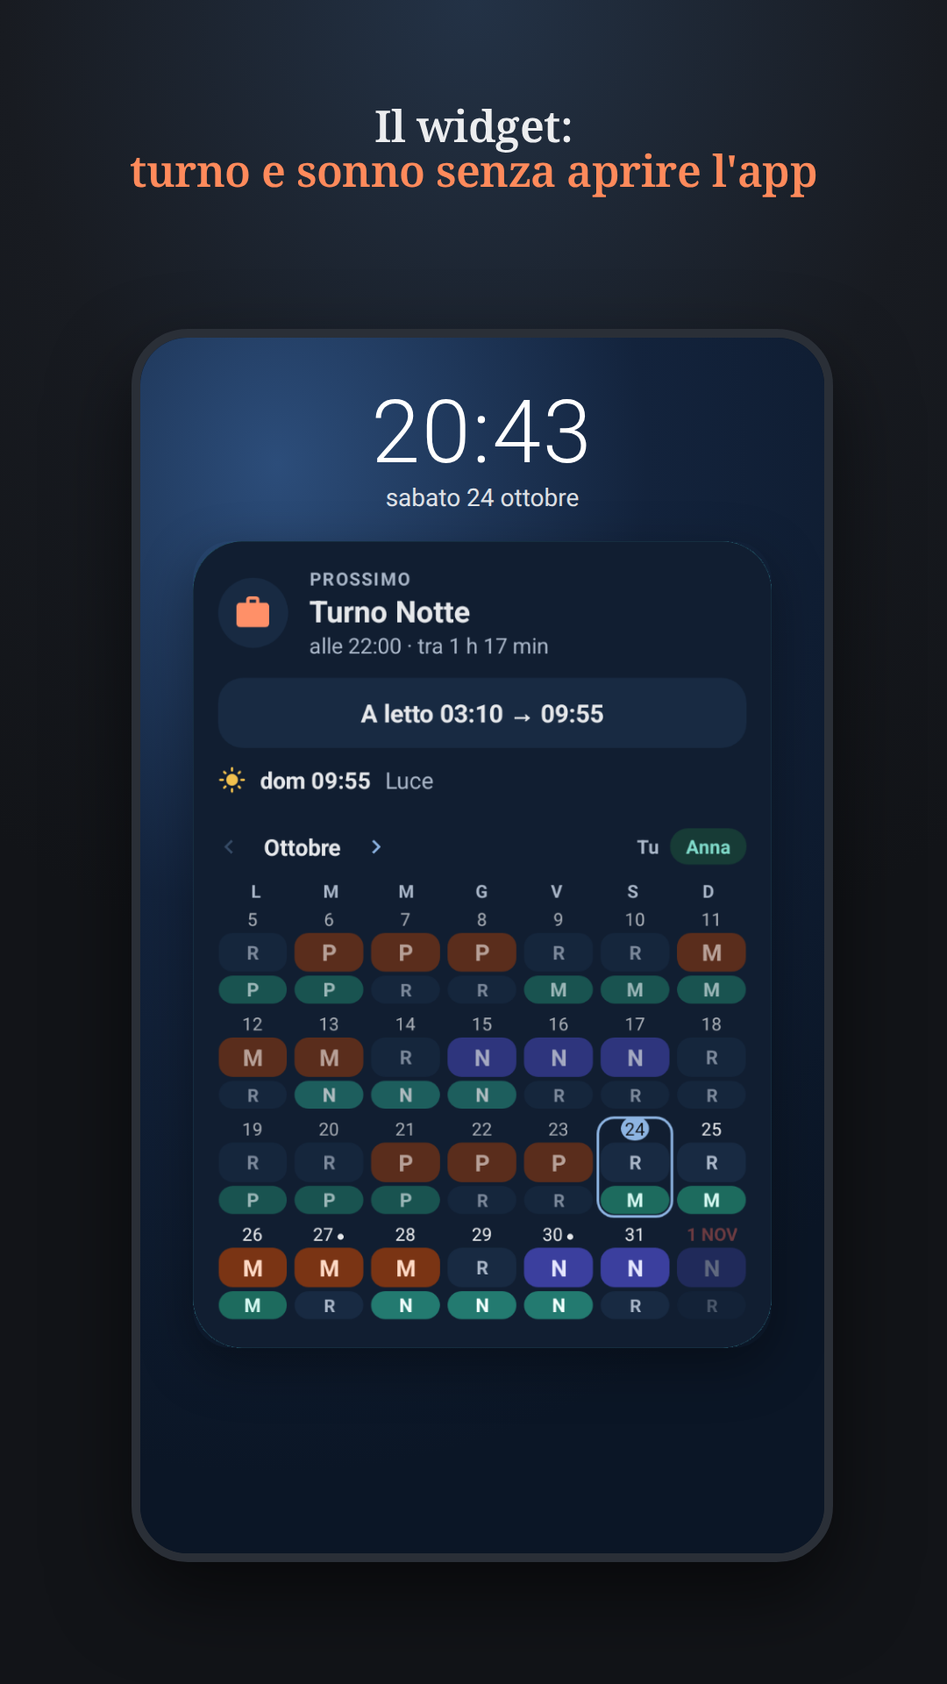
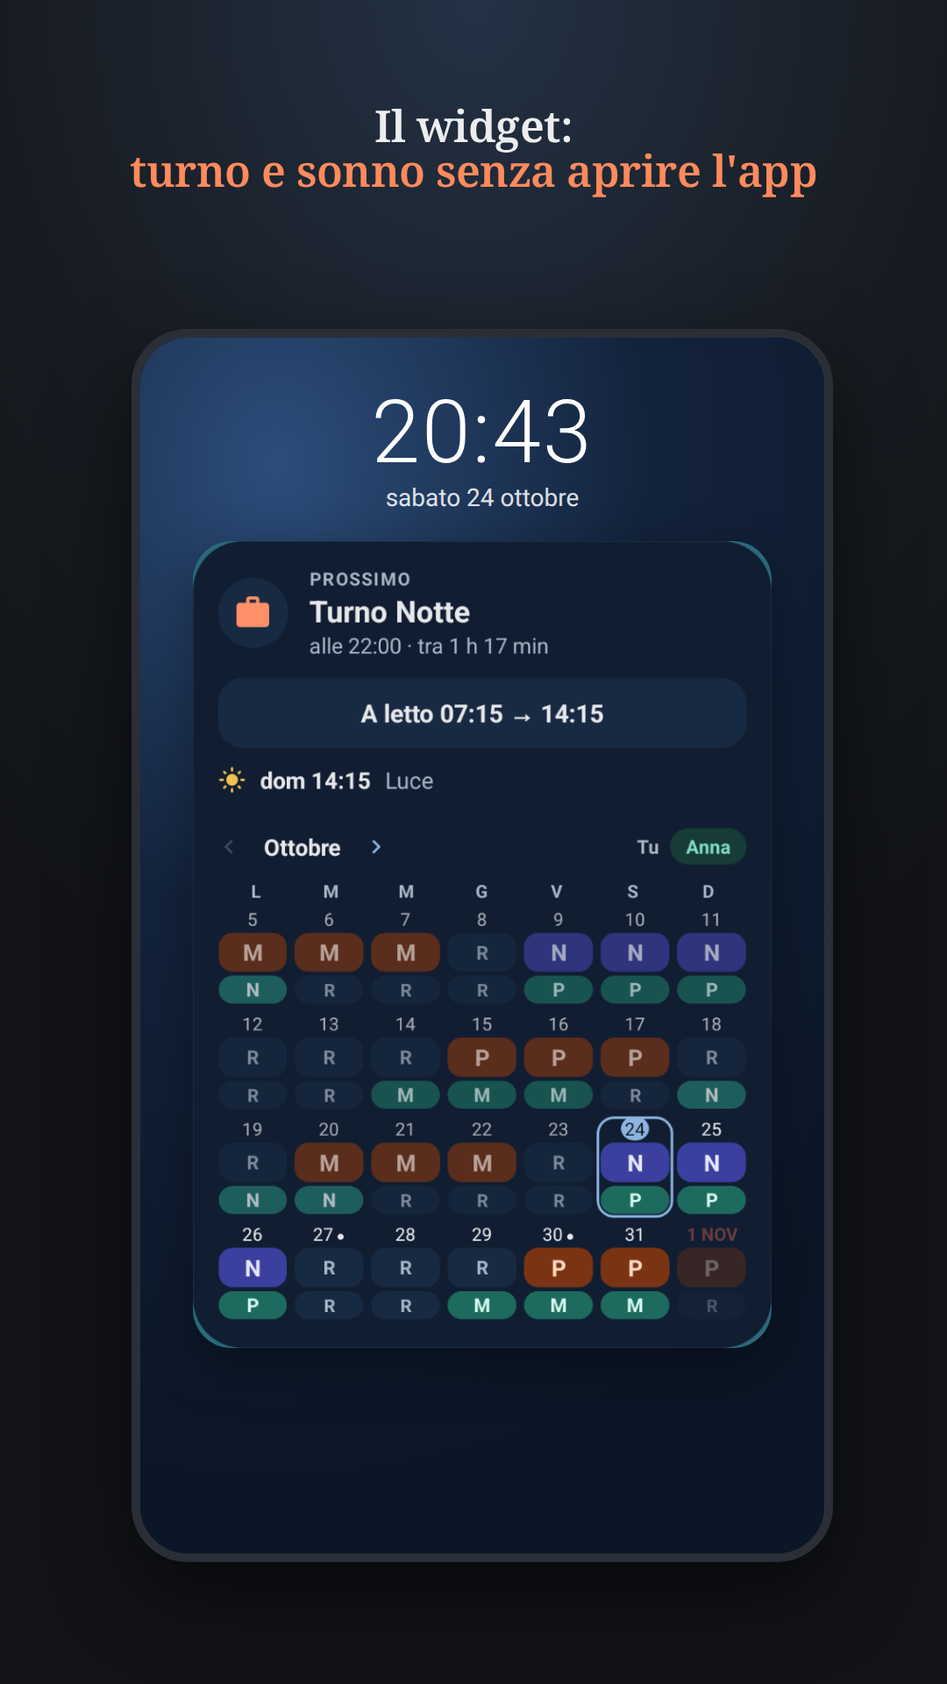
Testi: giro 6 del revisore e passata per concetto; widget dello store coerente
- Autisti: il sonno al volante di solito si fa sentire prima; regole UE
  solo per le linee oltre i 50 km. Recupero sempre parziale; caffeina
  «possono disturbare» e «una parte resta in circolo»; «di solito» dove
  mancava; trovate da sole altre 4 certezze (vedi giro 7 nel dossier).
- Cronotipo: taglio alle 21:00 e la sveglia dichiarata vera, non quella
  limitata dal motore (chi dorme 14–22 risultava allodola); test 14–22.
- Anteprima del widget con dati coerenti (oggi notte, sonno dopo il
  turno); screenshot dello store rigenerati e controllati.
- Test resi stabili: speciali sfoglia la settimana della striscia e
  fissa l'ora (falliva di giovedì e dopo mezzanotte).

diff --git a/index.html b/index.html
@@ -3914,7 +3914,7 @@ function cards(P){
   }else if(night){
     cc.sub="Di notte serve, ma va concentrata a inizio turno.";
     cc.rows.push(["Sì",hhmm(b.start)+" appena entri, un altro entro le "+hhmm(cut)]);
-    cc.rows.push(["Come prenderlo","piccoli e distanziati: due caffè normali a distanza reggono meglio di un doppio, e disturbano meno il sonno dopo"]);
+    cc.rows.push(["Come prenderlo","piccoli e distanziati: di solito due caffè normali a distanza reggono meglio di un doppio e pesano meno sul sonno dopo"]);
     cc.rows.push(["No","dopo le "+hhmm(cut)+": la caffeina è ancora in circolo quando provi a dormire"]);
   }else if(s.meta.ramp&&shift<0)
     cc.sub="Stasera vai a letto prima del solito: il caffè del pomeriggio è la prima cosa da anticipare.";
@@ -4025,13 +4025,13 @@ function cards(P){
          :n.turno?("Nella pausa, prima del momento peggiore della notte. Finisce con largo margine dalla fine del turno: svegliarsi poco prima di salire in macchina peggiorerebbe proprio l'ora più delicata.")
          :((n.b-n.a)<40&&!n.rec&&!n.lungo&&!n.debito&&!n.turno)?("Hai dormito abbastanza, ma fra la sveglia di stamattina e il letto di stanotte passano "+hm(n.ore||0)+" di fila. Un pisolino corto prima di uscire non ti ruba il sonno di stanotte e di solito ti fa arrivare a fine turno più lucido.")
          :(n.first?"Di solito è il pisolino che aiuta di più in tutto il ciclo. Fallo anche senza sonno, prima di uscire di casa."
-                  :"Recupera quello che il sonno del mattino non è riuscito a darti."),
+                  :"Ti fa recuperare una parte del sonno che la mattina non è riuscita a darti."),
       rows:n.rep?[["Se ti chiamano","un caffè appena esci va bene; dopo le 3 del mattino evitalo se poi torni a dormire. Al rientro, un sonno corto prima del resto della giornata"],
         ["Al risveglio","per circa un quarto d'ora sei più lento: se puoi, aspetta quel quarto d'ora prima di guidare"]]
         :(n.rec||n.dopo)?[]:[["Poi","mangi con calma ed esci: c'è tempo per svegliarti bene"],
         ["Al risveglio","per circa un quarto d'ora sei più lento: se puoi, aspetta quel quarto d'ora prima di guidare o di fare cose delicate"]],
       nap:{k:hhmm(n.a), fine:hhmm(n.b), min:n.b-n.a, turno:!!n.turno, livello:n.livello, caffe:!!n.caffe, caffeNo:n.caffeNo||""},
-      why:(night ? "Dormire prima di entrare riduce il crollo di attenzione nelle ore centrali della notte, quando gli errori costano di più."
+      why:(night ? "Dormire prima di entrare di solito riduce il crollo di attenzione nelle ore centrali della notte, quando gli errori costano di più."
                  : "Dormire prima di entrare di solito ti fa arrivare al turno più lucido, e il sonno che manca pesa meno sulle ore di lavoro.")+" Un'ora e mezza di solito lascia finire un ciclo di sonno e ci si sveglia meno intontiti; se non hai tempo, venti minuti sono meglio di niente.",
       cite:"Rosekind e coll. 1995 (NASA) · Tassi & Muzet 2000", at:n.a});
   }
@@ -4076,7 +4076,7 @@ function cards(P){
           ? "Quando stacchi sei in piedi da "+hm(filate)+", non da "+hm(senzaPisolino)+": senza il pisolino, dopo 17 ore di veglia la coordinazione cala come con circa 0,5 g/l di alcol."
           : "Quando stacchi sei in piedi da "+hm(filate)+" invece che da "+hm(senzaPisolino)+": di solito il pisolino ti fa arrivare a fine turno più lucido.")
         : filate < 60
-        ? "Sono più di quante il corpo ne regga bene, e oggi non c'è spazio per un pisolino che aiuti davvero: mettilo in conto, e se hai sonno non guidare."
+        ? "Sono tante ore di fila, e oggi non c'è spazio per un pisolino: mettilo in conto, e se hai sonno non guidare."
         : "Quando stacchi sei in piedi da "+hm(filate)+" di fila: sono tante ore. Se hai sonno, meglio non guidare.";
     out.push({k:"t",
       lab: b.rest ? "Veglia lunga" : "Rientro",
@@ -4100,9 +4100,9 @@ function cards(P){
       small: "<b>"+esc(b.name||nameOf(b.c))+"</b>",
       sub:"Per il viaggio contiamo "+state.cTo+" minuti all'andata e "+state.cFrom+" al ritorno: decidono quando ti prepari e da quando sei di nuovo libero.",
       ...(state.guidaLavoro ? {
-        rows:[["Pause di guida","dopo 4 ore e mezza di guida, 45 minuti di pausa (anche in due: prima 15, poi 30)"],
+        rows:[["Pause di guida","dopo 4 ore e mezza di guida, almeno 45 minuti di pausa (anche in due: prima 15, poi 30)"],
               ["Se hai sonno","nella pausa un caffè e subito un pisolino di 15–20 minuti; al risveglio riparti solo quando ti senti sveglio"]],
-        why:"Per camion e autobus le pause sono quelle delle regole europee (le stesse del tachigrafo). Il sonno al volante non avvisa: al simulatore, caffè più pisolino breve funziona meglio dei due da soli; finestrino aperto e radio alta no.",
+        why:"Per camion e autobus di linea oltre i 50 km valgono le regole europee (le stesse del tachigrafo); per le linee urbane decidono le regole nazionali e il contratto. Di solito il sonno al volante si fa sentire prima (palpebre pesanti, sbadigli): è il momento di fermarsi. Al simulatore, caffè più pisolino breve funziona meglio dei due da soli; finestrino aperto e radio alta no.",
         cite:"Reg. (CE) 561/2006, art. 7 · Reyner &amp; Horne 1997 (simulatore di guida)" } : {}),
       cambia:4, cambiaTxt:"Cambia il tuo tragitto",
       at: b.start});
@@ -4635,11 +4635,11 @@ function diaryReminder(P, CARDS){
   if(logged && P){
     const extraN=P.s && P.s.meta && P.s.meta.debitoExtra;
     if(extraN){ stato="Da recuperare: "+hm(P.debitoMin)+" di sonno · stanotte +"+extraN+" min";
-      statoPerche="Con più di tre ore di debito un pisolino non basta, e accorcerebbe il sonno di stanotte: per questo il piano anticipa di "+extraN+" minuti l'ora di letto. La sveglia resta la stessa, perché spostarla sposterebbe anche l'orologio del corpo."; }
+      statoPerche="Con più di tre ore di debito il piano preferisce allungare la notte: un pisolino lungo accorcerebbe il sonno di stanotte. Per questo il piano anticipa di "+extraN+" minuti l'ora di letto. La sveglia resta la stessa, perché spostarla sposterebbe anche l'orologio del corpo."; }
     else if(napRec){ stato="Da recuperare: "+hm(napRec.debito)+" di sonno · pisolino alle "+hhmm(napRec.a);
       statoPerche=debitoMotivo(napRec)+" Il pisolino non è un extra: ne recupera una parte prima che si sommi a domani. Quando comincia ti chiedo se l'hai fatto."; }
     else if(P.debitoScoperto>0){ stato="Da recuperare: "+hm(P.debitoScoperto)+" di sonno · oggi non c'è spazio per un pisolino";
-      statoPerche="Oggi non c'è spazio per un pisolino, né prima né dopo il turno. Il conto resta aperto: recupera stanotte e, se hai sonno, evita di guidare."; }
+      statoPerche="Oggi non c'è spazio per un pisolino, né prima né dopo il turno. Il conto resta aperto: stanotte ne recuperi una parte e, se hai sonno, evita di guidare."; }
     else if(napRecDebt){ stato="Per recuperare, il piano propone un pisolino alle "+hhmm(napRecDebt.a);
       statoPerche="La notte è stata più corta di quella che il piano proponeva: un pisolino di recupero ne toglie una parte."; }
     // le notti che pesano di più: il «Perché?» mostra da dove viene il numero
@@ -6410,8 +6410,8 @@ function attivitaHtml(k){
 }
 const VOCI_FIN=[
   ["testa","Testa",ICON.mente,"pensare, studiare","Le ore in cui di solito sei più lucido: almeno 90 minuti dopo il risveglio e 2 ore prima di dormire, fuori dal turno, dal viaggio e dai pasti. "+STIMA_FIN],
-  ["leggera","Movimento",ICON.passo,"camminare, stretching","45 minuti leggeri quando il corpo è più pronto: almeno 45 minuti dopo il risveglio e un'ora prima di dormire, lontano dai pasti. "+STIMA_FIN],
-  ["intensa","Allenamento",ICON.peso,"più impegnativo","60 minuti più impegnativi, quando forza e coordinazione sono al meglio: almeno 2 ore dopo il risveglio, lontano dai pasti, finiti 3 ore prima di dormire. "+STIMA_FIN]
+  ["leggera","Movimento",ICON.passo,"camminare, stretching","45 minuti leggeri quando di solito il corpo è più pronto: almeno 45 minuti dopo il risveglio e un'ora prima di dormire, lontano dai pasti. "+STIMA_FIN],
+  ["intensa","Allenamento",ICON.peso,"più impegnativo","60 minuti più impegnativi, quando di solito forza e coordinazione rendono di più: almeno 2 ore dopo il risveglio, lontano dai pasti, finiti 3 ore prima di dormire. "+STIMA_FIN]
 ];
 // A letto molto presto prima di un mattino: le due strade con gli orari veri,
 // nel giorno in cui servono (prima era una nota con un rimando a Impostazioni,
@@ -6428,7 +6428,7 @@ function sceltaLettoPresto(P){
   const on=!!state.mattinoBifasico;
   const opz=(v,nome,o,acceso)=>'<button type="button" class="vb'+(acceso?" on":"")+'" data-mattinobif="'+(v?1:0)+'" aria-pressed="'+acceso+'"><b>'+nome+'</b><span>a letto alle '+hhmm(o.a)+'</span></button>';
   const spiega='<p class="dn-hint">Tutto stanotte: le ore piene, ma prima delle 21 addormentarsi è difficile per molti. '+
-    'Più tardi + pisolino: a letto a un\'ora normale, e il resto lo recuperi con un pisolino dopo il turno.</p>';
+    'Più tardi + pisolino: a letto a un\'ora normale, e una parte di quello che manca la recuperi con un pisolino dopo il turno.</p>';
   // Una riga sola (la scelta in vigore e l'ora di letto): le due strade e il perché si aprono al tocco. Prima erano sempre aperti.
   return '<details class="dopo-notte dn-comp" aria-label="Prima di un turno molto presto, come dormi"><summary><span class="dn-sum"><small>Prima del turno presto</small><span><b>'+(on?"Più tardi + pisolino":"Tutto stanotte")+'</b> · a letto alle '+hhmm((on?diviso:tutto).a)+'</span></span></summary>'+
     '<div class="dn-scelta">'+opz(false,"Tutto stanotte",tutto,!on)+opz(true,"Più tardi + pisolino",diviso,on)+'</div>'+spiega+'<p class="dn-vale">Vale per tutti i turni presto.</p></details>';
@@ -6449,7 +6449,7 @@ function sceltaDopoNotte(P){
   const corto=P.s.kind==="corto", diviso=cur==="diviso";
   const opz=(val,nome,fine,on,nota)=>'<button type="button" class="vb'+(on?" on":"")+'" data-sonnod="'+val+'" aria-pressed="'+on+'"><b>'+nome+'</b><span>fino alle '+hhmm(fine)+'</span><span class="dn-nota">'+nota+'</span></button>';
   const spiega = '<p class="dn-hint">'+(corto
-    ? 'Sonno breve: il pomeriggio è tuo e stasera, di solito, il sonno arriva prima. Sonno lungo: recuperi di più adesso, ma stasera il sonno arriva più tardi.'
+    ? 'Sonno breve: il pomeriggio è tuo e stasera, di solito, il sonno arriva prima. Sonno lungo: recuperi di più adesso, ma di solito stasera il sonno arriva più tardi.'
     : 'In due tempi: un sonno più corto e un pisolino prima della prossima notte (di giorno si dorme più leggeri). Tutto di fila: un blocco solo, se di giorno dormi bene.')+'</p>';
   const scelte='<div class="dn-scelta">'+opz("diviso", corto?"Sonno breve":"In due tempi", eD, diviso, corto?"pomeriggio libero":"poi un pisolino")+opz(unito, corto?"Sonno lungo":"Tutto di fila", eU, !diviso, corto?"recuperi di più":"un blocco solo")+'</div>'+
     spiega+'<p class="dn-vale">Vale per tutte le notti.</p>';
@@ -7435,7 +7435,7 @@ function perchéOggi(P){
   const aVoce=x=>{ x=Math.round(x/15)*15; const h=Math.floor(x/60), r=x%60, q={15:"un quarto d'ora",30:"mezz'ora",45:"tre quarti d'ora"};
     if(!h) return q[r]||"";
     return (["","un'ora","due ore","tre ore","quattro ore","cinque ore","sei ore"][h]||h+" ore")+({15:" e un quarto",30:" e mezza",45:" e tre quarti"}[r]||""); };
-  if(P.lateStart) return "Attacchi nel cuore della notte: si dorme prima del turno"+((P.naps||[]).some(n=>n.rec) ? " e si recupera dopo, con un pisolino." : ".");
+  if(P.lateStart) return "Attacchi nel cuore della notte: si dorme prima del turno"+((P.naps||[]).some(n=>n.rec) ? " e una parte si recupera dopo, con un pisolino." : ".");
   if(P.night){
     const n=s.nIdx||1, L=s.nLen||1;
     if(n===1 && m.gap && m.gapNight) return "Prima notte: il tuo orologio non è ancora sulla notte, ed è normale. Ci pensano il pisolino di oggi e la luce in turno.";
@@ -7734,7 +7734,7 @@ function caricoHtml(aperta){
   else if(noti(F) && F.brevi) frase=(F.brevi===1?"Una volta":F.brevi+" volte")+" nei prossimi 30 giorni stacchi e riattacchi in meno di 11 ore: in quei giorni il sonno va protetto più del solito.";
   else if(noti(P) && P.serieMax>=4) frase="Nell'ultimo mese hai fatto fino a "+P.serieMax+" notti di fila: il rischio di infortuni cresce a ogni notte, di più alla quarta [Folkard & Tucker 2003].";
   else if(noti(P) && P.brevi) frase=(P.brevi===1?"Una volta":P.brevi+" volte")+" nell'ultimo mese hai avuto meno di 11 ore fra un turno e l'altro.";
-  else if(noti(P) || noti(F)) frase="Niente serie lunghe di notti né riposi sotto le 11 ore: un carico che si recupera bene.";
+  else if(noti(P) || noti(F)) frase="Niente serie lunghe di notti né riposi sotto le 11 ore: un carico più leggero.";
   else frase="Segna i turni in «I turni del mese» per vedere il carico.";
   const rigaC = noti(F)||noti(P) ? (()=>{ const R=noti(F)?F:P, q=noti(F)?"in arrivo":"nell'ultimo mese"; return (R.serieMax? "al massimo "+(R.serieMax===1?"1 notte":R.serieMax+" notti di fila"): "Nessuna notte")+" · "+(R.brevi? R.brevi+(R.brevi===1?" riposo":" riposi")+" sotto le 11 ore":"nessun riposo breve")+" · "+q; })() : "Segna i turni per vederlo";
   return sezDet("Il carico dei turni", rigaC,
@@ -7757,12 +7757,16 @@ function orologio(){
   // è recupero (MSFsc = MSF − (SDf − SDmedia)/2). La media usa solo le notti fra giorni non di notte, e con meno
   // di 5 notti non si corregge. Serve solo all'etichetta e ai consigli: il piano usa i tuoi orari veri.
   const lp=liberiPuliti();
-  const sdF=lp ? lp.sd : (((wake-bed)%1440+1440)%1440 || +state.need || 480);
+  // L'etichetta usa la sveglia dichiarata vera: il motore la limita alle 04:00–12:00 per il piano (freeWakeUsata),
+  // e con quella chi dorme 14–22 risultava dormire 22 ore. Una durata non plausibile torna al bisogno di sonno.
+  const sveglia=isFinite(t(state.freeWake)) ? t(state.freeWake) : wake, sdDich=((sveglia-bed)%1440+1440)%1440;
+  const sdF=lp ? lp.sd : (sdDich>=180 && sdDich<=840 ? sdDich : (+state.need || 480));
   const sdMedia=sonnoMedioDiario();
   const corr=sdMedia!=null && sdF>sdMedia;
   const msf=lp ? lp.msf : bed+sdF/2, msfsc=mod1440(corr ? msf-(sdF-sdMedia)/2 : msf);
-  // Taglio alle 18:00: le 23:30 sono «prima di mezzanotte» (−0,5), le 12:00 di chi dorme 08–16 restano 12 (gufo), non −12.
-  const h=(msfsc<1080 ? msfsc : msfsc-1440)/60;
+  // Taglio alle 21:00: le 23:30 sono «prima di mezzanotte» (−0,5); le 12:00 di chi dorme 08–16 e le 18:00 di chi
+  // dorme 14–22 restano 12 e 18 (gufo), non −12 e −6.
+  const h=(msfsc<1260 ? msfsc : msfsc-1440)/60;
   const tipo = h<2.5 ? "Allodola" : h<3.5 ? "Un po' allodola" : h<5 ? "Né allodola né gufo" : h<6 ? "Un po' gufo" : "Gufo";
   let lucido=null;
   try{ if(window.NTAlert){
@@ -7784,9 +7788,9 @@ function liberiPuliti(){
     let libero=false;
     try{ const off=dnum(g)-f, b=NT.block(off); libero = b.rest && NT.tipoDelGiorno(off-1)!=="n"; }catch(e){}
     if(!libero) continue;
-    // Stesso taglio delle 18:00 dell'etichetta: chi va a letto a volte alle 11:45 e a volte alle 12:15
+    // Stesso taglio delle 21:00 dell'etichetta: chi va a letto a volte alle 11:45 e a volte alle 12:15
     // deve dare due metà vicine (16:00), non 16:00 e 04:00.
-    const b0=t(bd); mids.push((b0<1080 ? b0+1440 : b0)+d/2); durs.push(d); }
+    const b0=t(bd); mids.push((b0<1260 ? b0+1440 : b0)+d/2); durs.push(d); }
   if(mids.length<4) return null;
   const m=v=>v.reduce((a,b)=>a+b,0)/v.length;
   return {n:mids.length, msf:mod1440(m(mids)), sd:m(durs)};
@@ -7993,7 +7997,7 @@ function renderAndamenti(){
   const VOCI=[["carico","calendar","Il carico dei turni","Segna i turni per vederlo","Notti di fila, riposi brevi, festivi e ore dei prossimi 30 giorni, calcolati dai tuoi turni."],
     ["dormi","bed","Come dormi e come stai","Dopo qualche notte annotata","Quanto dormi e come ti senti prima di ogni tipo di turno: compare dopo almeno 4 notti annotate."],
     ["orari","alarm","Gli orari del tuo sonno","Servono 5 notti annotate","Quanto sono regolari gli orari a cui vai a letto e ti svegli: servono almeno 5 notti con i tuoi orari veri."],
-    ["schemi","sparkles","I tuoi schemi","Si vedono con i giorni","Cosa ti fa stare meglio, dai tuoi dati: movimento, luce, caffè, alcol, pasto."],
+    ["schemi","sparkles","I tuoi schemi","Si vedono con i giorni","Cosa va insieme ai giorni in cui stai meglio, dai tuoi dati: movimento, luce, caffè, alcol, pasto."],
     ["orologio","sun","Il tuo orologio","—","Il tuo ritmo stimato dagli orari dei giorni liberi."]]
     .map(([id,ic,t,vuoto,spiega])=>Object.assign({ic}, vociAnd[id] || {id, t, r:vuoto, c:'<p class="hint" style="margin:0">'+esc(spiega)+'</p>', vuota:true}));
   const voceAperta=VOCI.find(v=>v.id===andSez);

diff --git a/tools/anteprima-widget/app/src/test/java/club/notturnisti/twa/AnteprimaTest.kt b/tools/anteprima-widget/app/src/test/java/club/notturnisti/twa/AnteprimaTest.kt
@@ -25,10 +25,11 @@ class AnteprimaTest {
     private fun calendario(persone: Boolean): JSONObject {
         val pat = "NNNRRRPPPRRMMMR"; val mie = JSONArray(); val sue = JSONArray()
         fun cella(c: Char) = "$c:" + (if (c == 'N') "n" else if (c == 'R') "r" else "l")
-        // 20 settimane da lunedì 21 settembre (quattro prima di quella di oggi), come le pubblica la pagina
+        // 20 settimane da lunedì 21 settembre (quattro prima di quella di oggi), come le pubblica la pagina.
+        // Oggi (sabato 24 ottobre, indice 33) è la prima notte del ciclo, come dicono le voci: niente «R» sotto «Turno Notte».
         // segni del giorno: 1 novembre festivo (giorno rosso), 27 e 30 ottobre modificati (puntino)
         fun segni(i: Int) = if (i == 41) ":f" else if (i == 36 || i == 39) ":x" else ""
-        for (i in 0 until 140) { mie.put((if (i == 52) "Fe:r" else cella(pat[(i + 4 - 28 + 150) % pat.length])) + segni(i)); sue.put(cella(pat[(i + 6 - 28 + 150) % pat.length])) }
+        for (i in 0 until 140) { mie.put((if (i == 52) "Fe:r" else cella(pat[(i + 12) % pat.length])) + segni(i)); sue.put(cella(pat[(i + 3) % pat.length])) }
         val o = JSONObject().put("da", "2026-09-21").put("io", mie).put("sel", 0).put("star", "0|Anna")
         o.put("p", if (persone) JSONArray().put(JSONObject().put("n", "Anna").put("g", sue)) else JSONArray())
         return o
@@ -52,8 +53,8 @@ class AnteprimaTest {
         p.snapshot(box, nome)
     }
 
-    private fun sera() = listOf(voce(t(0, 22, 0), t(1, 6, 15), "Turno Notte", "turno"), voce(t(1, 3, 10), t(1, 9, 55), "Sonno", "sonno"), voce(t(1, 9, 55), t(1, 10, 15), "Luce", "luce"))
-    private fun pomeriggio() = listOf(voce(t(0, 19, 5), t(0, 19, 50), "Pisolino di recupero", "pisolino-recupero"), voce(t(0, 19, 10), t(0, 19, 25), "Ultimo caffè", "caffe"), voce(t(0, 22, 0), t(1, 6, 15), "Turno Notte", "turno"), voce(t(1, 3, 10), t(1, 9, 55), "Sonno", "sonno"))
+    private fun sera() = listOf(voce(t(0, 22, 0), t(1, 6, 15), "Turno Notte", "turno"), voce(t(1, 7, 15), t(1, 14, 15), "Sonno", "sonno"), voce(t(1, 14, 15), t(1, 14, 45), "Luce", "luce"))
+    private fun pomeriggio() = listOf(voce(t(0, 19, 5), t(0, 19, 50), "Pisolino", "pisolino"), voce(t(0, 19, 10), t(0, 19, 25), "Ultima caffeina", "caffe"), voce(t(0, 22, 0), t(1, 6, 15), "Turno Notte", "turno"), voce(t(1, 7, 15), t(1, 14, 15), "Sonno", "sonno"))
     private fun diario() = JSONObject().put("d", "2026-10-24").put("bed", "23:30").put("wake", "07:10").put("da", t(0, 7, 10)).put("a", t(0, 21, 10))
 
     private fun tutte(nome: String, ora: Long, voci: List<JSONObject>, diario: JSONObject? = null, persone: Boolean = true) {

diff --git a/notifications.js b/notifications.js
@@ -28,7 +28,7 @@ export const TIPI = [
   { k: "rischio",  nome: "Giorni impegnativi",       desc: "Prima della terza notte di fila o di un rientro con meno di 11 ore di riposo: cosa fare per arrivarci meglio", essenziale: true, canale: "sicurezza" },
   { k: "bedtime",  nome: "Preparati a dormire",      desc: "Mezz'ora prima del sonno pianificato",                                   essenziale: true,  canale: "sonno" },
   { k: "domani",   nome: "Che turno fai domani?",    desc: "Solo se domani non è segnato: senza turno il piano non c'è",             essenziale: true,  canale: "turni" },
-  { k: "coffee",   nome: "Ultima caffeina",          desc: "L'ora oltre la quale caffè, tè, cola o energy drink disturbano il sonno",                     essenziale: false, canale: "caffe" },
+  { k: "coffee",   nome: "Ultima caffeina",          desc: "L'ora oltre la quale caffè, tè, cola o energy drink possono disturbare il sonno",                     essenziale: false, canale: "caffe" },
   { k: "nap",      nome: "Pisolino",                 desc: "Solo nei giorni in cui il piano lo prevede",                             essenziale: false, canale: "pisolini" },
   { k: "prep",     nome: "Preparati per il turno",   desc: "Un'ora prima dell'inizio del turno",                                     essenziale: false, canale: "turni" },
   { k: "luce",     nome: "Luce del mattino",         desc: "Quando prendere luce per tenere l'orologio del corpo al passo",                               essenziale: false, canale: "luce" },
@@ -133,7 +133,7 @@ export function buildSchedule(config, opts = {}) {
 
     if (want("coffee"))
       push(base, P.cut, "coffee", "Ultima caffeina",
-        "Dopo quest'ora la caffeina resta in circolo quando provi a dormire.");
+        "Dopo quest'ora una parte della caffeina resta in circolo quando provi a dormire.");
 
     // 10 minuti prima della fine: lo leggi prima di uscire, non già alla guida.
     if (want("ret") && (P.night || P.lateStart) && !P.b.rest)

diff --git a/tests/tono.test.js b/tests/tono.test.js
@@ -21,7 +21,10 @@ const VIETATE = [/stasera devi/i, /rischio alto/i, /impedit/i, /sospettat/i, /sb
   // giro 5: l'inerzia che «passa in pochi minuti» prima di guidare, il debito dato per recuperato tutto,
   // l'alba simulata come certezza, le promesse di risultato («arrivarci in forma», «mente lucida»)
   /(pochi|qualche) minut[^.]*(guid|ripart)/i, /rimette a posto il conto|recuperi quello perso|portare il conto a domani/i,
-  /molto meno intontit/i, /arrivarci in forma/i, /mente lucida/i];
+  /molto meno intontit/i, /arrivarci in forma/i, /mente lucida/i,
+  // giro 6: il sonno al volante che «non avvisa», le certezze sulla caffeina, il recupero completo, «al meglio»
+  /non avvisa/i, /oltre la quale[^.]*disturbano/i, /recupera quello che|il resto lo recuperi/i, /sono al meglio/i,
+  /ti fa stare meglio/i, /si recupera bene/i];
 
 // La scheda di Google Play è testo semplice: ogni riga conta.
 const SCHEDA = "docs/play/scheda.md";

diff --git a/engine.js b/engine.js
@@ -1297,7 +1297,7 @@ function buildEvents(days, pianoGiorni=days){
       (n.rec||n.debito)?"Pisolino di recupero":n.rep?"Pisolino preventivo":((n.b-n.a)<40?"Pisolino breve":"Pisolino"),
       n.rep?"Sei reperibile: un pisolino ora è una riserva se ti chiamano. Al risveglio, se puoi, aspetta un quarto d'ora prima di guidare.":"",true));
     if(ICS.caffe) ev(base,P.cut,P.cut+15,"caffe","Ultima caffeina",
-      "Dopo quest'ora la caffeina è ancora in circolo quando provi a dormire.",true);
+      "Dopo quest'ora una parte della caffeina è ancora in circolo quando provi a dormire.",true);
     // La luce è la leva principale sull'orologio: senza, il piano si disfa.
     if(ICS.luce && isFinite(P.wake))
       ev(base,P.wake+15,P.wake+35,"luce","Luce",
